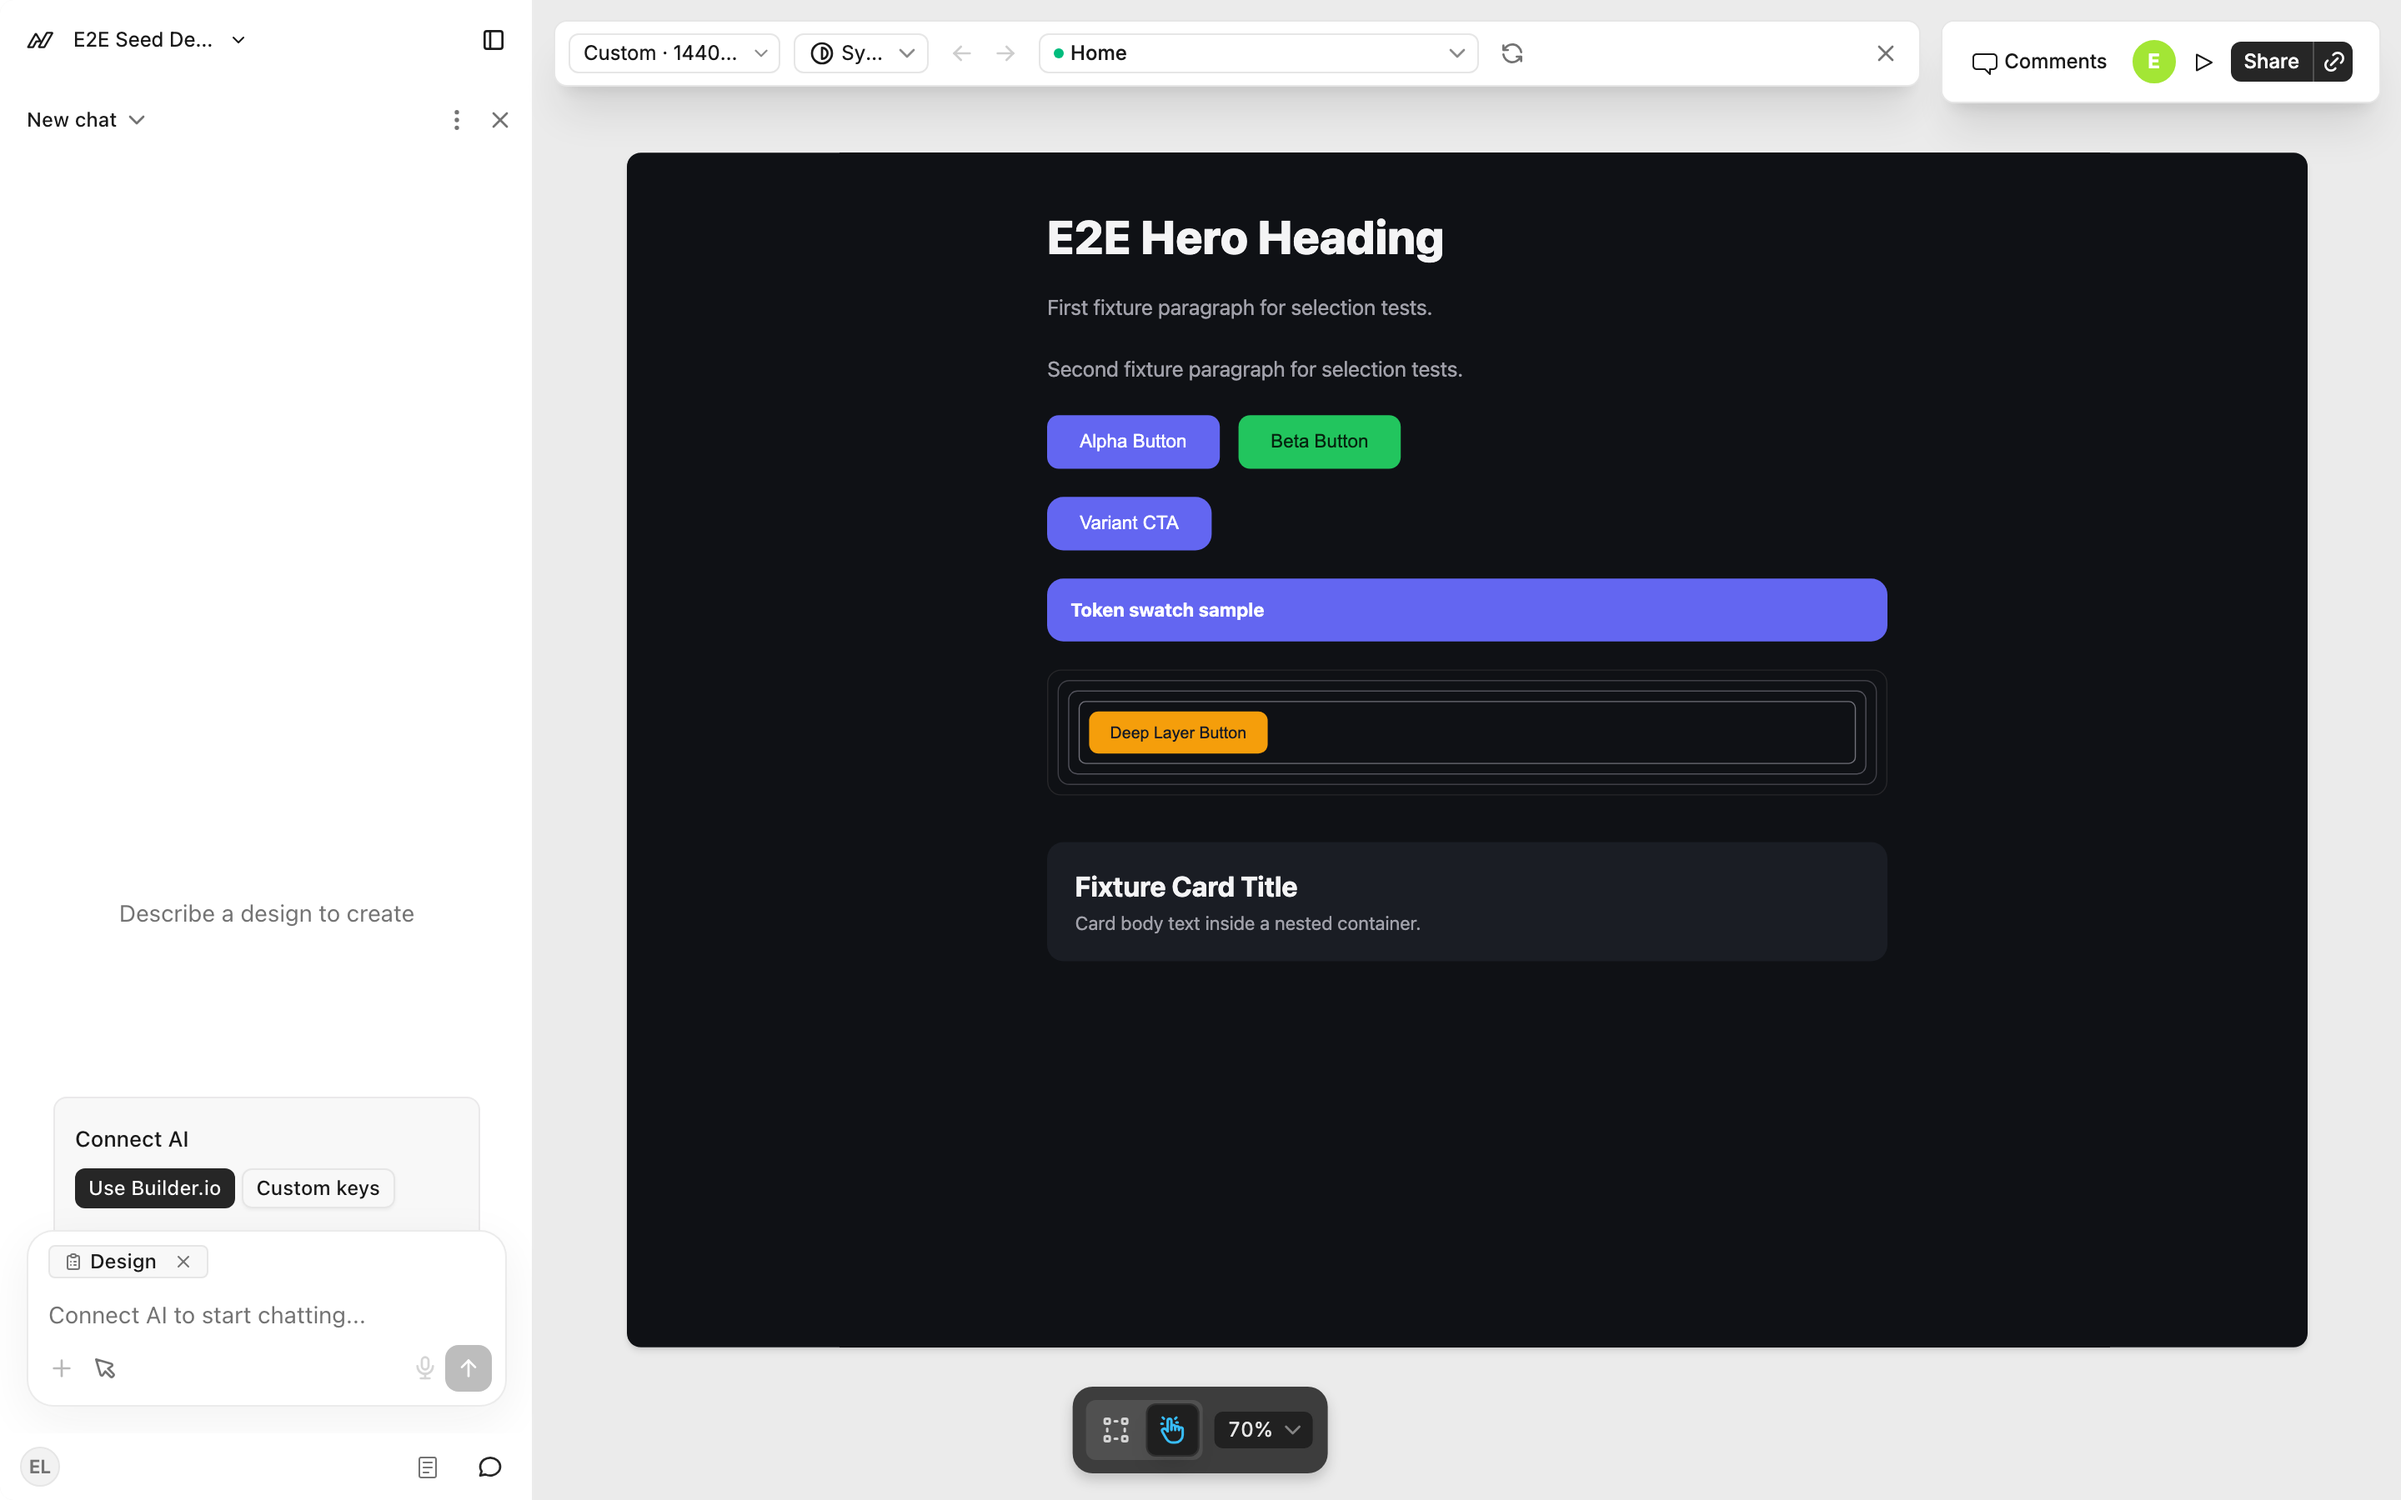
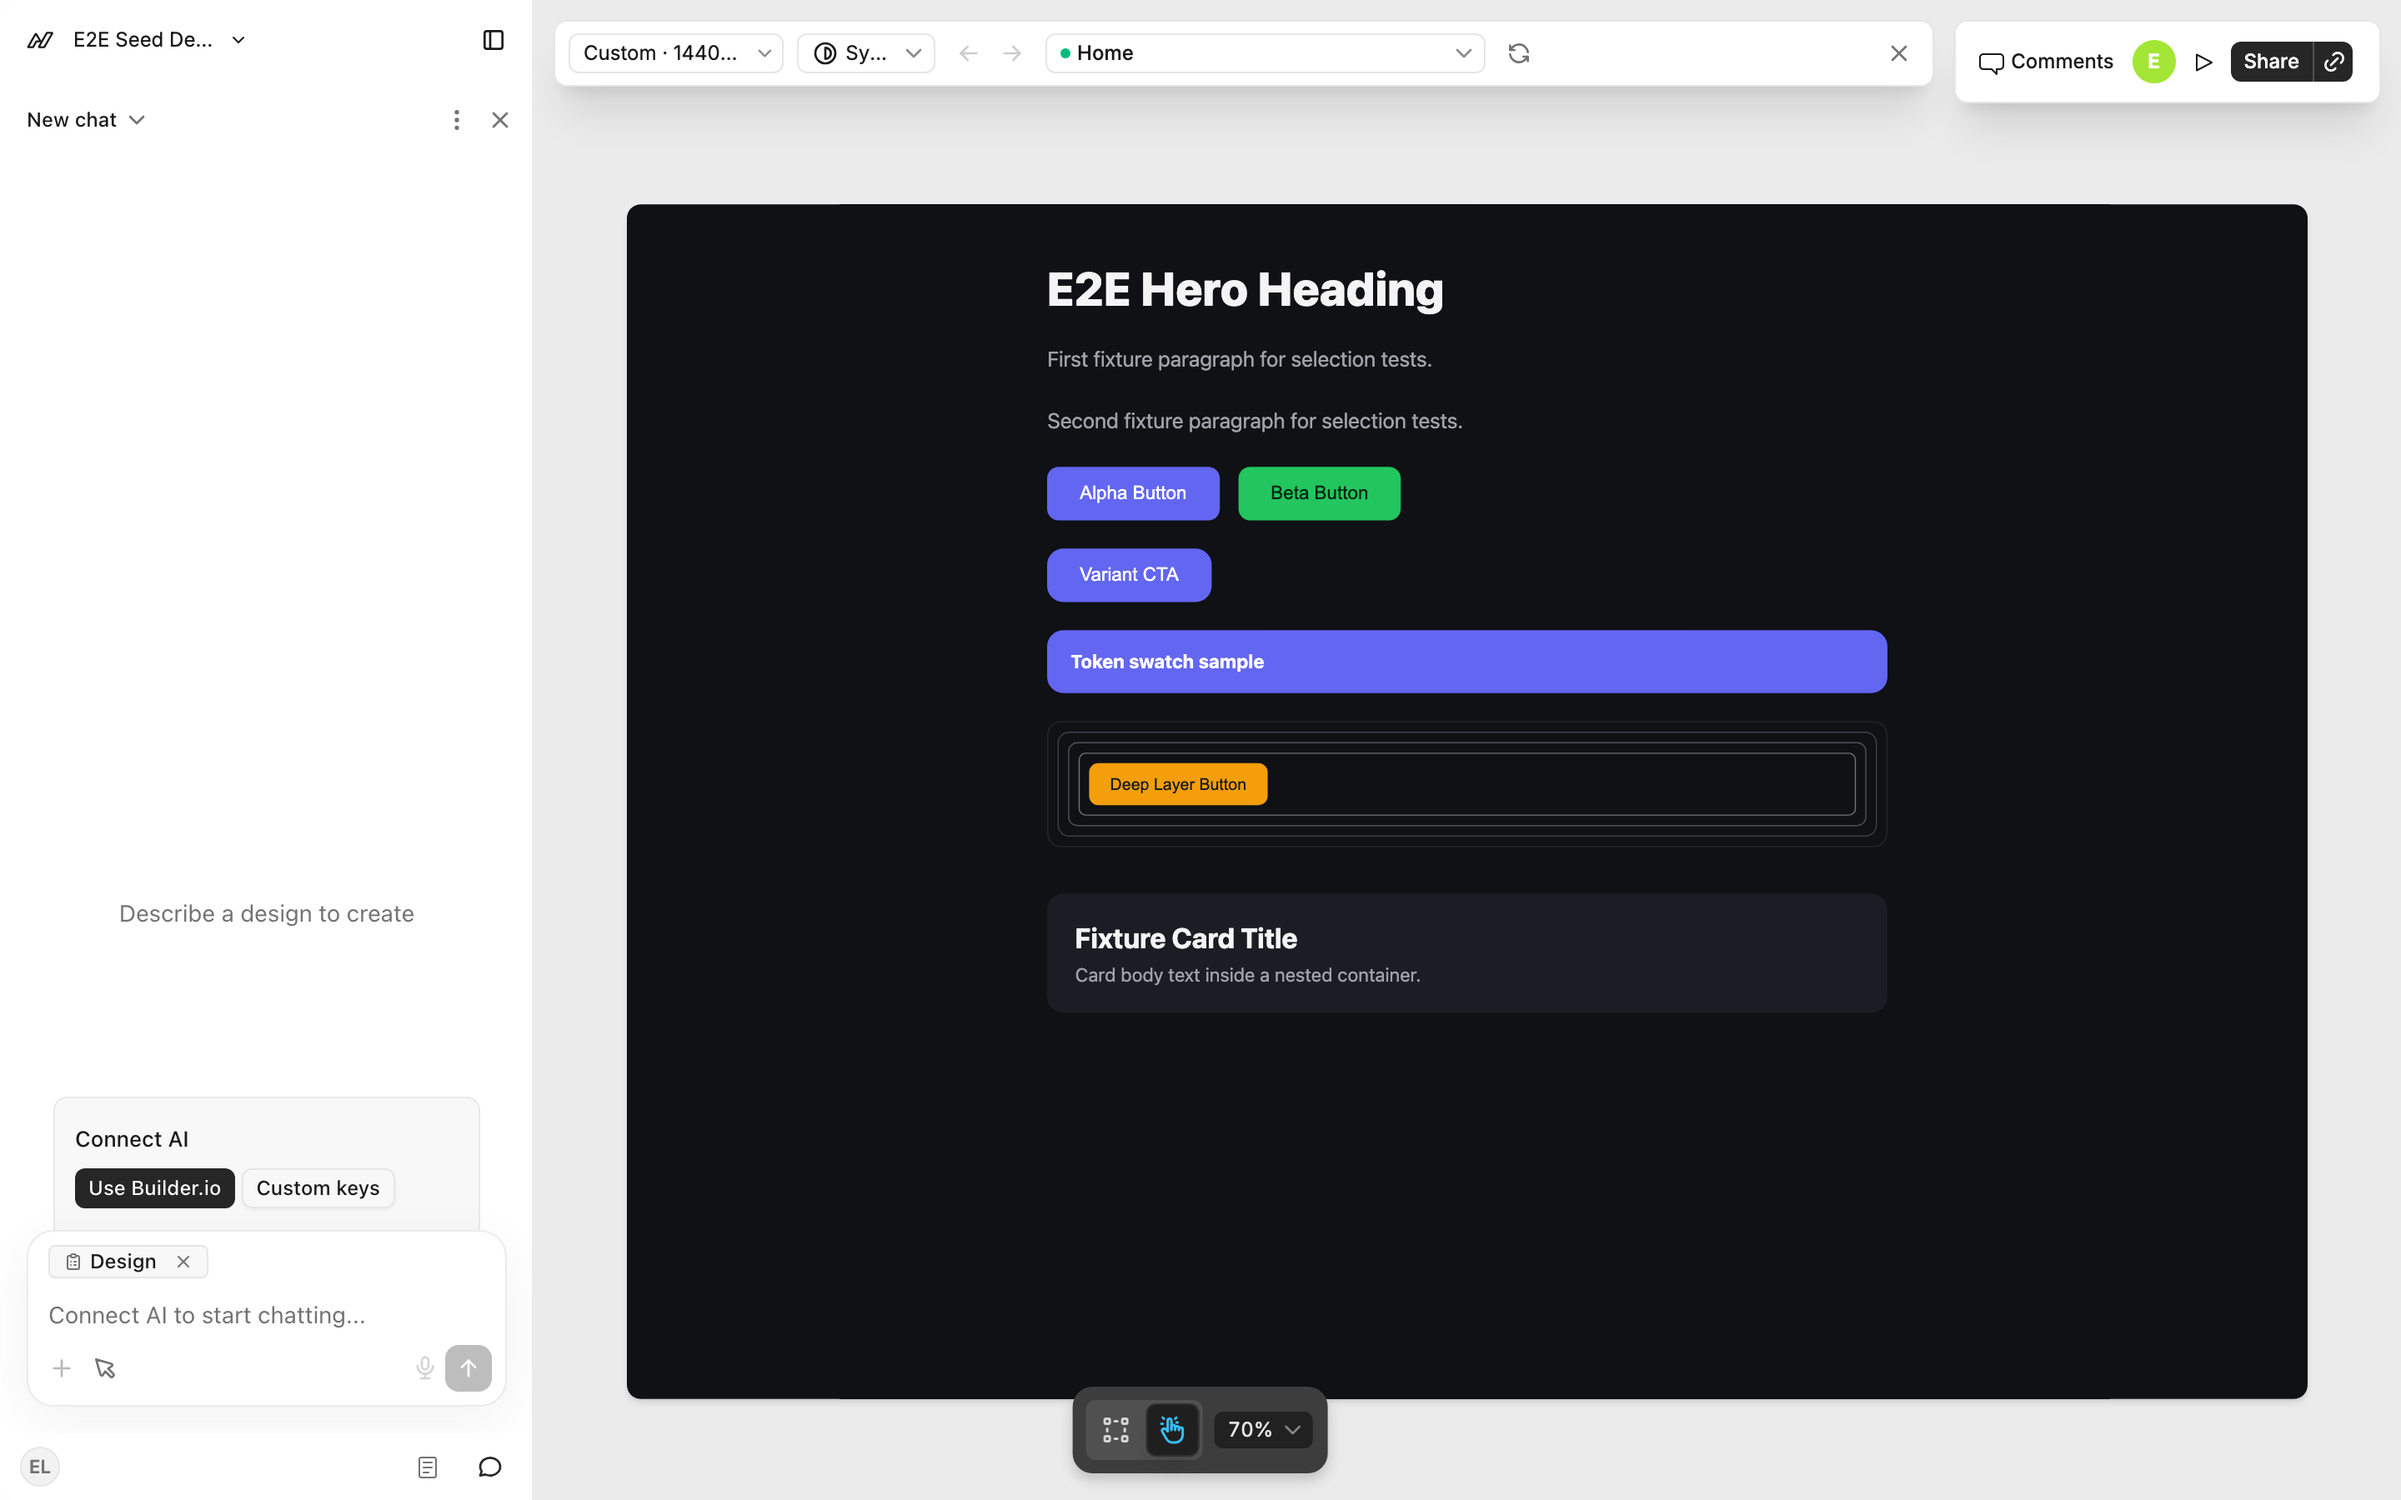
fix(design): start the Interact page below the floating bar and right column head

diff --git a/templates/design/app/pages/design-editor/view/right-rail.tsx b/templates/design/app/pages/design-editor/view/right-rail.tsx
@@ -1,4 +1,9 @@
-import type { ReactElement } from "react";
+import {
+  useLayoutEffect,
+  useRef,
+  type ReactElement,
+  type ReactNode,
+} from "react";
 
 import { AgentNativeMenuMark } from "@/components/design/editor/AgentNativeMenuMark";
 import { SidebarResizeHandle } from "@/components/design/editor/SidebarResizeHandle";
@@ -54,6 +59,7 @@ export function renderRightRail({
     rightSidebarWidth,
     setRightSidebarWidth,
     startSidebarResize,
+    setFloatingTopChromeHeight,
   } = editorHistory;
   const { uiHidden } = editorContentAndComponents;
   const showComments = commentsPanel !== null;
@@ -113,13 +119,10 @@ export function renderRightRail({
       ) : null}
 
       {floatingBarVisible || floatingHeadVisible ? (
-        <div
-          data-design-floating-top
-          className="pointer-events-none absolute top-0 z-[90] flex items-start gap-3 px-3 pt-3"
-          style={{
-            left: leftInset,
-            right: rightSidebarVisible ? rightSidebarWidth : 0,
-          }}
+        <FloatingTopChrome
+          left={leftInset}
+          right={rightSidebarVisible ? rightSidebarWidth : 0}
+          onHeightChange={setFloatingTopChromeHeight}
         >
           {floatingBarVisible ? (
             <div
@@ -139,7 +142,7 @@ export function renderRightRail({
               {rightSidebarActions}
             </div>
           ) : null}
-        </div>
+        </FloatingTopChrome>
       ) : null}
 
       {minimalUi && !hostOwnsChrome ? (
@@ -176,5 +179,42 @@ export function renderRightRail({
         </div>
       ) : null}
     </>
+  );
+}
+
+function FloatingTopChrome({
+  left,
+  right,
+  onHeightChange,
+  children,
+}: {
+  left: number;
+  right: number;
+  onHeightChange: (height: number) => void;
+  children: ReactNode;
+}) {
+  const ref = useRef<HTMLDivElement>(null);
+  useLayoutEffect(() => {
+    const element = ref.current;
+    if (!element) return;
+    const report = () => onHeightChange(Math.ceil(element.offsetHeight));
+    report();
+    const observer =
+      typeof ResizeObserver === "undefined" ? null : new ResizeObserver(report);
+    observer?.observe(element);
+    return () => {
+      observer?.disconnect();
+      onHeightChange(0);
+    };
+  }, [onHeightChange]);
+  return (
+    <div
+      ref={ref}
+      data-design-floating-top
+      className="pointer-events-none absolute top-0 z-[90] flex items-start gap-3 px-3 pt-3"
+      style={{ left, right }}
+    >
+      {children}
+    </div>
   );
 }

diff --git a/templates/design/app/pages/design-editor/view/editor-canvas-area.tsx b/templates/design/app/pages/design-editor/view/editor-canvas-area.tsx
@@ -120,6 +120,7 @@ export function renderEditorCanvasArea({
     setHasSystemClipboardImages,
     hasSystemClipboardImages,
     minimalUi,
+    floatingTopChromeHeight,
   } = editorHistory;
   const {
     canEditDesign,
@@ -595,8 +596,13 @@ export function renderEditorCanvasArea({
         <div
           className="relative flex min-w-0 flex-1 flex-col overflow-hidden"
           style={
-            responsiveInteractActive && leftChromeOverlayInset
-              ? { paddingLeft: leftChromeOverlayInset }
+            responsiveInteractActive
+              ? {
+                  paddingLeft: leftChromeOverlayInset,
+                  paddingTop: floatingTopChromeHeight || undefined,
+                  background:
+                    canvasBackground || "var(--design-editor-canvas-bg)",
+                }
               : undefined
           }
         >

diff --git a/templates/design/e2e/interact-toolbar-layout.spec.ts b/templates/design/e2e/interact-toolbar-layout.spec.ts
@@ -293,6 +293,23 @@ test("Interact controls stay inside the floating bar at Damian's 1456×410 viewp
   await cdpScreenshot(page, testInfo.outputPath("damian-interact.png"));
 });
 
+test("the Interact page starts below the floating bar and the right column head", async ({
+  app,
+  page,
+}) => {
+  await enterInteractAndSampleImmediately(app, 1280, 720);
+
+  await expect
+    .poll(async () => {
+      const chrome = await page
+        .locator("[data-design-floating-top]")
+        .boundingBox();
+      const frame = await page.locator(INTERACTIVE_FRAME).boundingBox();
+      return chrome && frame ? frame.y - (chrome.y + chrome.height) : null;
+    })
+    .toBeGreaterThanOrEqual(0);
+});
+
 test("Interact keeps the mode switch, device, theme and screen on a 390px viewport", async ({
   app,
   page,

diff --git a/templates/design/app/pages/design-editor/domains/use-editor-history.ts b/templates/design/app/pages/design-editor/domains/use-editor-history.ts
@@ -200,6 +200,7 @@ export function useEditorHistory({ editorCore }: { editorCore: EditorCore }) {
     [],
   );
   const [commentsPanelOpen, setCommentsPanelOpen] = useState(false);
+  const [floatingTopChromeHeight, setFloatingTopChromeHeight] = useState(0);
   const setActiveLeftPanel = useCallback(
     (next: SetStateAction<DesignLeftPanel | null>) => {
       if (next === "threads") {
@@ -1254,6 +1255,8 @@ export function useEditorHistory({ editorCore }: { editorCore: EditorCore }) {
     collapseLeftPanel,
     commentsPanelOpen,
     setCommentsPanelOpen,
+    floatingTopChromeHeight,
+    setFloatingTopChromeHeight,
     leftSidebarWidth,
     setLeftSidebarWidth,
     rightSidebarWidth,

diff --git a/templates/design/app/pages/design-editor/view/right-rail.test.tsx b/templates/design/app/pages/design-editor/view/right-rail.test.tsx
@@ -45,6 +45,7 @@ function railArgs(overrides: {
       rightSidebarWidth: 240,
       setRightSidebarWidth: vi.fn(),
       startSidebarResize: vi.fn(),
+      setFloatingTopChromeHeight: vi.fn(),
       commentsPanelOpen: overrides.commentsPanelOpen ?? false,
     } as unknown as EditorHistory,
     editorContentAndComponents: {
